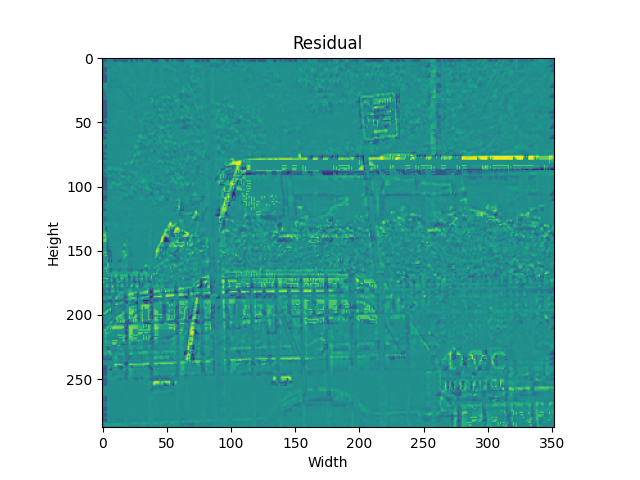
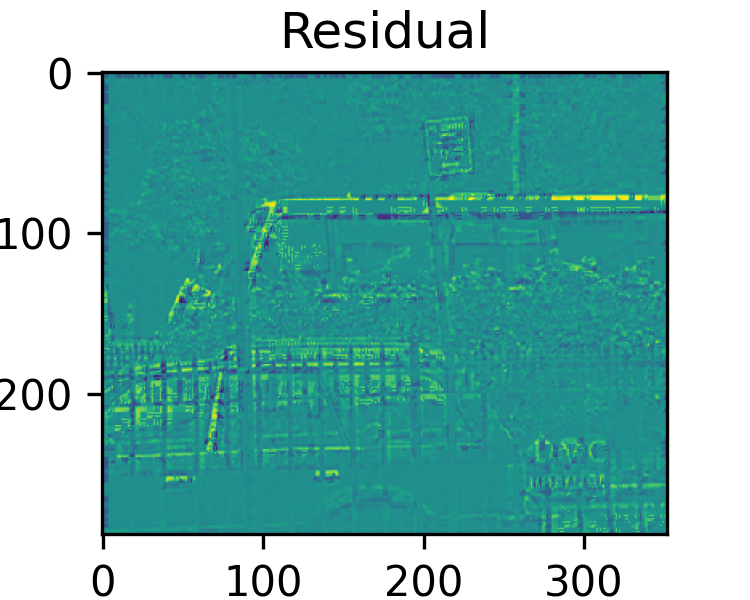
fixes

diff --git a/main.py b/main.py
@@ -166,52 +166,27 @@ for vp in videos_list:
         intra, diff, diff_recon, reconstructed, modes = encoder.full_process(y_frame)
         psnr_intra = dct_processor.calculate_psnr(y_frame, intra)
 
-        fig1, ax1 = plt.subplots()
+        fig1, ax1 = plt.subplots(figsize=(2.5, 2))
         ax1.imshow(diff)
         ax1.set_title(f'Residual')# - MAD: {dct_processor.calculate_mad(y_frame, reconstructed)}')
         ax1.set_xlabel('Width')
         ax1.set_ylabel('Height')
-        fig1.savefig(f'files/output_files/{vp.filename}_{qp}_residual.png')
+        fig1.savefig(f'files/output_files/{vp.filename}_{qp}_residual.png', dpi=300)
 
-        fig2, ax2 = plt.subplots()
+        fig2, ax2 = plt.subplots(figsize=(2.5, 2))
         ax2.imshow(intra)
         ax2.set_title(f'Intra Prediction')# - PSNR: {psnr_intra}')
         ax2.set_xlabel('Width')
         ax2.set_ylabel('Height')
-        fig2.savefig(f'files/output_files/{vp.filename}_{qp}_intra.png')
+        fig2.savefig(f'files/output_files/{vp.filename}_{qp}_intra.png', dpi=300)
 
-        fig3, ax3 = plt.subplots()
+        fig3, ax3 = plt.subplots(figsize=(2.5, 2))
         ax3.imshow(reconstructed)
         ax3.set_title(f'Reconstructed')# - PSNR: {dct_processor.calculate_psnr(y_frame, reconstructed)}')
         ax3.set_xlabel('Width')
         ax3.set_ylabel('Height')
-        fig3.savefig(f'files/output_files/{vp.filename}_{qp}_reconstructed.png')
+        fig3.savefig(f'files/output_files/{vp.filename}_{qp}_reconstructed.png', dpi=300)
 
-
-        # plot = plt.figure(figsize=(16, 4))
-        #
-        # plt.subplot(131)
-        # plt.imshow(diff, cmap='viridis')
-        # plt.title(f'Residual - MAD: {dct_processor.calculate_mad(y_frame, reconstructed)}')
-        # plt.xlabel('Width')
-        # plt.ylabel('Height')
-        #
-        # plt.subplot(132)
-        # plt.imshow(intra, cmap='viridis')
-        # plt.title(f'Intra Prediction - PSNR: {psnr_intra}')
-        # plt.xlabel('Width')
-        # plt.ylabel('Height')
-        #
-        # plt.subplot(133)
-        # plt.imshow(reconstructed, cmap='viridis')
-        # plt.title(f'Reconstructed - PSNR: {dct_processor.calculate_psnr(y_frame, reconstructed)}')
-        # plt.xlabel('Width')
-        # plt.ylabel('Height')
-        # plt.suptitle(f'{vp.filename} - QP: {qp}')
-        #
-        # save_plot(plot, f'{vp.filename}_{qp}.png')
-        #
-        # plt.show()
 
         psnr_intra = dct_processor.calculate_psnr(y_frame, intra)
         mad = dct_processor.calculate_mad(y_frame, reconstructed)

diff --git a/README.md b/README.md
@@ -35,11 +35,11 @@ In the course "Transmission of Video and Audio Signals over the Internet 3712122
 ## Question 1
 Two videos were selected for this exercise. From each video, one uncompressed Intensity (Luma) frame was extracted and saved as a separate file. This resulted in two uncompressed grayscale images:
 
-![bus_cif_frame](files/output_files/bus_cif_frame.png)
+![bus_cif_frame](C:\Users\uriel\PycharmProjects\VideoProccesing2\files/output_files/bus_cif_frame.png)
 
 `bus_cif_frame.png`
 
-![coastguard_cif_frame](files/output_files/coastguard_cif_frame.png)
+![coastguard_cif_frame](C:\Users\uriel\PycharmProjects\VideoProccesing2\files/output_files/coastguard_cif_frame.png)
 
 `coastguard_cif_frame.png`
 
@@ -55,7 +55,7 @@ The Python files involved in this process include:
 
 The following diagram provides a detailed view of the intra prediction system:
 
-![Intra Prediction System Diagram](diagram.jpg)
+![Intra Prediction System Diagram](C:\Users\uriel\PycharmProjects\VideoProccesing2\diagram.jpg)
 
 The diagram shows the flow of the intra prediction system. It starts with the input of a 4x4 block from the original image. The prediction mode is determined based on the surrounding pixels and the prediction error is calculated. The error is then transformed, quantized, and entropy coded. The reverse process is applied for decoding to reconstruct the image block.
 
@@ -65,9 +65,9 @@ For each image and for QP values of 6, 12, 18, and 30, the original image, the i
 Here are the outputs for each QP value:
 
 #### bus_cif for QP=6
-![bus_cif_6_intra](files/output_files/bus_cif_6_intra.png)
-![bus_cif_6_residual](files/output_files/bus_cif_6_residual.png)
-![bus_cif_6_reconstructed](files/output_files/bus_cif_6_reconstructed.png)
+![bus_cif_6_intra](C:\Users\uriel\PycharmProjects\VideoProccesing2\files/output_files/bus_cif_6_intra.png)
+![bus_cif_6_residual](C:\Users\uriel\PycharmProjects\VideoProccesing2\files/output_files/bus_cif_6_residual.png)
+![bus_cif_6_reconstructed](C:\Users\uriel\PycharmProjects\VideoProccesing2\files/output_files/bus_cif_6_reconstructed.png)
 
 Image after Intra Prediction (PSNR: 15.8678967199016)
 
@@ -76,9 +76,9 @@ Residual Image (MAD: 23.567323626893938)
 Reconstructed Image (PSNR: 15.93105662395991)
 
 #### bus_cif for QP=12
-![bus_cif_12_intra](files/output_files/bus_cif_12_intra.png)
-![bus_cif_12_residual](files/output_files/bus_cif_12_residual.png)
-![bus_cif_12_reconstructed](files/output_files/bus_cif_12_reconstructed.png)
+![bus_cif_12_intra](C:\Users\uriel\PycharmProjects\VideoProccesing2\files/output_files/bus_cif_12_intra.png)
+![bus_cif_12_residual](C:\Users\uriel\PycharmProjects\VideoProccesing2\files/output_files/bus_cif_12_residual.png)
+![bus_cif_12_reconstructed](C:\Users\uriel\PycharmProjects\VideoProccesing2\files/output_files/bus_cif_12_reconstructed.png)
 
 Image after Intra Prediction (PSNR: 15.903162501820194)
 
@@ -87,9 +87,9 @@ Residual Image (MAD: 23.396987452651516)
 Reconstructed Image (PSNR: 15.957074850399213)
 
 #### bus_cif for QP=18
-![bus_cif_18_intra](files/output_files/bus_cif_18_intra.png)
-![bus_cif_18_residual](files/output_files/bus_cif_18_residual.png)
-![bus_cif_18_reconstructed](files/output_files/bus_cif_18_reconstructed.png)
+![bus_cif_18_intra](C:\Users\uriel\PycharmProjects\VideoProccesing2\files/output_files/bus_cif_18_intra.png)
+![bus_cif_18_residual](C:\Users\uriel\PycharmProjects\VideoProccesing2\files/output_files/bus_cif_18_residual.png)
+![bus_cif_18_reconstructed](C:\Users\uriel\PycharmProjects\VideoProccesing2\files/output_files/bus_cif_18_reconstructed.png)
 
 Image after Intra Prediction (PSNR: 15.977418884511106)
 
@@ -98,9 +98,9 @@ Residual Image (MAD: 23.353594539141415)
 Reconstructed Image (PSNR: 16.033236427873593)
 
 #### bus_cif for QP=30
-![bus_cif_30_intra](files/output_files/bus_cif_30_intra.png)
-![bus_cif_30_residual](files/output_files/bus_cif_30_residual.png)
-![bus_cif_30_reconstructed](files/output_files/bus_cif_30_reconstructed.png)
+![bus_cif_30_intra](C:\Users\uriel\PycharmProjects\VideoProccesing2\files/output_files/bus_cif_30_intra.png)
+![bus_cif_30_residual](C:\Users\uriel\PycharmProjects\VideoProccesing2\files/output_files/bus_cif_30_residual.png)
+![bus_cif_30_reconstructed](C:\Users\uriel\PycharmProjects\VideoProccesing2\files/output_files/bus_cif_30_reconstructed.png)
 
 Image after Intra Prediction (PSNR: 15.906368019303583)
 
@@ -110,9 +110,9 @@ Reconstructed Image (PSNR: 15.715424508063888)
 
 
 #### coastguard_cif for QP=6
-![coastguard_cif_6_intra](files/output_files/coastguard_cif_6_intra.png)
-![coastguard_cif_6_residual](files/output_files/coastguard_cif_6_residual.png)
-![coastguard_cif_6_reconstructed](files/output_files/coastguard_cif_6_reconstructed.png)
+![coastguard_cif_6_intra](C:\Users\uriel\PycharmProjects\VideoProccesing2\files/output_files/coastguard_cif_6_intra.png)
+![coastguard_cif_6_residual](C:\Users\uriel\PycharmProjects\VideoProccesing2\files/output_files/coastguard_cif_6_residual.png)
+![coastguard_cif_6_reconstructed](C:\Users\uriel\PycharmProjects\VideoProccesing2\files/output_files/coastguard_cif_6_reconstructed.png)
 
 Image after Intra Prediction (PSNR: 13.32573027618592)
 
@@ -121,9 +121,9 @@ Residual Image (MAD: 33.1395202020202)
 Reconstructed Image (PSNR: 13.395374389266703)
 
 #### coastguard_cif for QP=12
-![coastguard_cif_12_intra](files/output_files/coastguard_cif_12_intra.png)
-![coastguard_cif_12_residual](files/output_files/coastguard_cif_12_residual.png)
-![coastguard_cif_12_reconstructed](files/output_files/coastguard_cif_12_reconstructed.png)
+![coastguard_cif_12_intra](C:\Users\uriel\PycharmProjects\VideoProccesing2\files/output_files/coastguard_cif_12_intra.png)
+![coastguard_cif_12_residual](C:\Users\uriel\PycharmProjects\VideoProccesing2\files/output_files/coastguard_cif_12_residual.png)
+![coastguard_cif_12_reconstructed](C:\Users\uriel\PycharmProjects\VideoProccesing2\files/output_files/coastguard_cif_12_reconstructed.png)
 
 Image after Intra Prediction (PSNR: 13.374872829939822)
 
@@ -132,9 +132,9 @@ Residual Image (MAD: 32.91103416982323)
 Reconstructed Image (PSNR: 13.433505651748172)
 
 #### coastguard_cif for QP=18
-![coastguard_cif_18_intra](files/output_files/coastguard_cif_18_intra.png)
-![coastguard_cif_18_residual](files/output_files/coastguard_cif_18_residual.png)
-![coastguard_cif_18_reconstructed](files/output_files/coastguard_cif_18_reconstructed.png)
+![coastguard_cif_18_intra](C:\Users\uriel\PycharmProjects\VideoProccesing2\files/output_files/coastguard_cif_18_intra.png)
+![coastguard_cif_18_residual](C:\Users\uriel\PycharmProjects\VideoProccesing2\files/output_files/coastguard_cif_18_residual.png)
+![coastguard_cif_18_reconstructed](C:\Users\uriel\PycharmProjects\VideoProccesing2\files/output_files/coastguard_cif_18_reconstructed.png)
 
 Image after Intra Prediction (PSNR: 13.554844292332792)
 
@@ -143,9 +143,9 @@ Residual Image (MAD: 32.12626262626262)
 Reconstructed Image (PSNR: 13.5891768492349)
 
 #### coastguard_cif for QP=30
-![coastguard_cif_30_intra](files/output_files/coastguard_cif_30_intra.png)
-![coastguard_cif_30_residual](files/output_files/coastguard_cif_30_residual.png)
-![coastguard_cif_30_reconstructed](files/output_files/coastguard_cif_30_reconstructed.png)
+![coastguard_cif_30_intra](C:\Users\uriel\PycharmProjects\VideoProccesing2\files/output_files/coastguard_cif_30_intra.png)
+![coastguard_cif_30_residual](C:\Users\uriel\PycharmProjects\VideoProccesing2\files/output_files/coastguard_cif_30_residual.png)
+![coastguard_cif_30_reconstructed](C:\Users\uriel\PycharmProjects\VideoProccesing2\files/output_files/coastguard_cif_30_reconstructed.png)
 
 Image after Intra Prediction (PSNR: 15.733535861495584)
 
@@ -161,36 +161,26 @@ The Mean Absolute Difference (MAD) obtained from the process of searching for th
 ## Question 3
 ### Part a
 For the two images and QP=12, a table was created to tabulate the frequency of different modes. The frequency of each mode used for the `bus_c
-
 if` and `coastguard_cif` images was analyzed.
 
 For each image, the modes and their counts are as follows:
 
-For `bus_cif`:
-- DC: 13
-- Vertical: 36
-- Horizontal: 391
-- Diagonal down left: 128
-- Diagonal down right: 120
-- Vertical right: 71
-- Vertical left: 90
-- Horizontal down: 81
-- Horizontal up: 155
+|   |  `bus_cif` | `coastguard_cif` |
+|---|---|------------------|
+|  DC |  13 | 9                |
+| Vertical  | 36  | 0                |
+|  Horizontal |   391| 447              |
+|   Diagonal down left| 128  | 242              |
+|  Diagonal down right |  120 | 209              |
+| Vertical right  |  71 | 25               |
+| Vertical left  | 90  | 60               |
+|  Horizontal down | 81  | 56               |
+|  Horizontal up |  155 | 82               |
 
-For `coastguard_cif`:
-- DC: 9
-- Vertical: 0
-- Horizontal: 447
-- Diagonal down left: 242
-- Diagonal down right: 209
-- Vertical right: 25
-- Vertical left: 60
-- Horizontal down: 56
-- Horizontal up: 82
 
 The results were visualized using bar charts to compare the frequency of each mode between the two images:
 
-![mode_comparison](files/output_files/bus_cif_coastguard_cif_30.png)
+![mode_comparison](C:\Users\uriel\PycharmProjects\VideoProccesing2\files/output_files/bus_cif_coastguard_cif_30.png)
 
 ### Part b
 The pattern of the current block mode being the same as the previous one can be used to avoid the need to send the mode information repeatedly, thus saving bits. This technique can be particularly effective in areas of the image where the same mode is used repeatedly over a series of blocks.
@@ -198,6 +188,18 @@ The pattern of the current block mode being the same as the previous one can be 
 ## Question 4
 ### Part a
 When dealing with a noisy image and Salt & Pepper type noise, it is preferable to use SAD (Sum of Absolute Differences) instead of MSE (Mean Squared Error) to characterize the noise.
+
+Salt & Pepper noise is a type of noise often seen in images, where pixels in the image are very different in color or intensity from their surrounding pixels. This noise presents itself as sparsely occurring white and black pixels, hence the name "Salt & Pepper".
+
+When dealing with this type of noise, the Sum of Absolute Differences (SAD) is often preferred over the Mean Squared Error (MSE) for a few reasons:
+
+1. **Outlier Sensitivity**: MSE is sensitive to outliers because it squares the differences. In the case of Salt & Pepper noise, where the noise can be seen as outliers, this can lead to a large error. On the other hand, SAD, which is based on absolute differences, is less sensitive to these outliers.
+
+2. **Computational Simplicity**: SAD is computationally simpler than MSE as it avoids the need for squaring and square root operations. This can be an advantage in real-time applications where computational resources and speed are critical.
+
+3. **Perceptual Relevance**: In some cases, SAD can be more perceptually relevant than MSE. Human visual system is more sensitive to absolute differences in intensities rather than squared differences, especially for high contrast changes like those caused by Salt & Pepper noise.
+
+Therefore, while both SAD and MSE can be used to characterize noise, SAD is often a better choice when dealing with Salt & Pepper noise.
 
 ### Part b
 Given a typical hybrid video encoder scheme as shown in the provided image, the components of the system where information is lost or changed include:
@@ -211,6 +213,17 @@ Given a typical hybrid video encoder scheme as shown in the provided image, the 
 The above-mentioned steps are inherent to the video compression process, and they aim to reduce data size at the cost of some loss in quality. Understanding these losses helps us to design better encoding algorithms and tune parameters to achieve a good balance between data size and image quality.
 
 ### Part c
-In the AVC (H.264) standard, intra coding can also be performed in blocks of 8x8 as well as 16x16. These larger block sizes can be advantageous over 4x4 blocks in parts of the image where there is less variation or larger homogeneous areas.
+
+In the AVC (H.264) standard, intra coding can be performed in blocks of different sizes: 4x4, 8x8, and 16x16. The choice of block size can have a significant impact on the efficiency of the encoding process and the quality of the resulting image.
+
+The advantage of using larger block sizes, such as 8x8 or 16x16, over 4x4 blocks typically becomes apparent in certain parts of the image:
+
+1. **Homogeneous Areas**: These are areas of the image with little variation in color or intensity. In such areas, a larger block size can effectively capture the uniformity, resulting in more efficient encoding. For example, a clear blue sky or a white wall would benefit from larger block sizes.
+
+2. **Low-Detail Regions**: In regions of the image where there isn't a lot of detail or high-frequency content (like edges or texture), larger block sizes can be more efficient. This is because they can capture the broader patterns without wasting bits on unnecessary detail.
+
+In contrast, smaller block sizes like 4x4 are more advantageous in high-detail or high-contrast areas of the image, where they can better capture the intricate details and variations.
+
+Therefore, the choice of block size in intra coding should ideally be adaptive, taking into account the characteristics of the different regions within the image. This adaptability is one of the strengths of the AVC (H.264) standard, allowing it to maintain a good balance between compression efficiency and image quality.
 
 In conclusion, through this exercise, we have deepened our understanding of the intra prediction method used in the H.264 video compression standard. The detailed analysis, implementation, and use of Python for programming and image processing has helped us appreciate the intricate balance between data compression and maintaining image quality.
